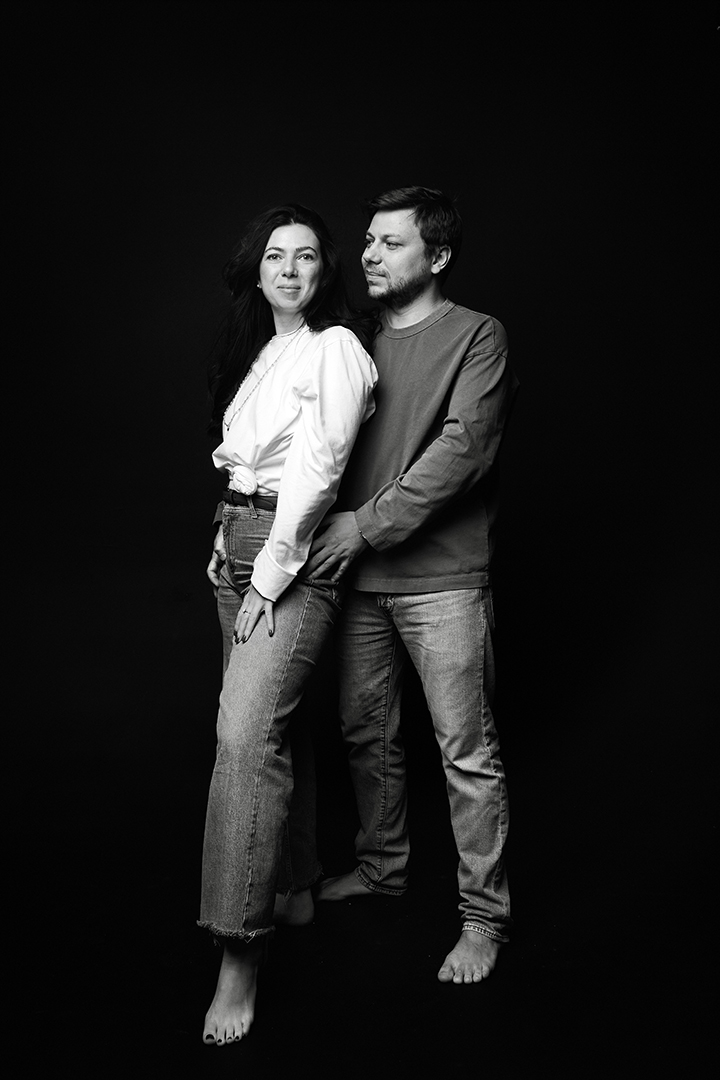
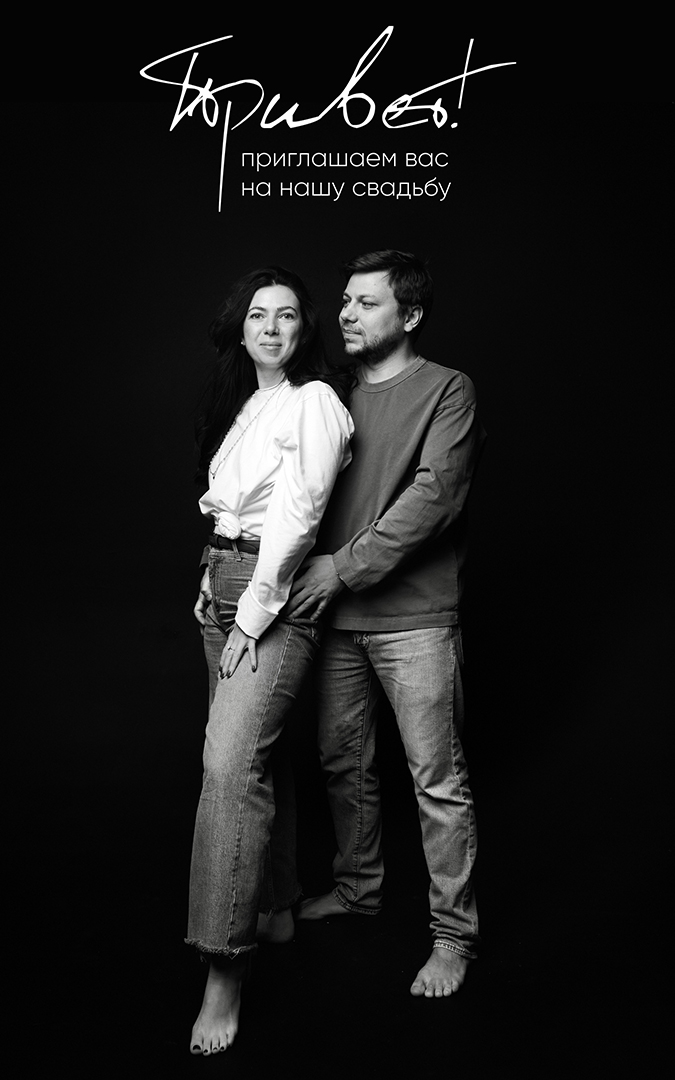
change hi image

Changed region(s): [[0.2178, 0.0306, 0.7156, 0.9778]]

diff --git a/src/components/Managers.js b/src/components/Managers.js
@@ -3,14 +3,14 @@ import SmartphoneOutlinedIcon from '@mui/icons-material/SmartphoneOutlined';
 import * as React from "react";
 
 function Managers() {
-    const managers = [{
-        "name": "Агентство Донцов-Фэмели",
-        "phone": "+7(993)700-39-75"
-    },
+    const managers = [
         {
-        "name": "Наталья (координатор)",
-        "phone": "+7(977)731-16-84"
-    }]
+            "name": "Наталья (координатор)",
+            "phone": "+7(977)731-16-84"
+        }, {
+            "name": "Агентство Донцов-Фэмели",
+            "phone": "+7(993)700-39-75"
+        }]
     return (
         <Box sx={{
             ml: '32px',
@@ -39,7 +39,7 @@ function Managers() {
                             color="neutral"
                             underline="always"
                             href={"tel:" + manager.phone}
-                              startDecorator={<SmartphoneOutlinedIcon/>}
+                            startDecorator={<SmartphoneOutlinedIcon/>}
                         >
                             {manager.phone}
                         </Link>

diff --git a/src/components/Invitation.js b/src/components/Invitation.js
@@ -6,19 +6,18 @@ function Invitation() {
         <Box sx={{
             ml: '32px',
             mr: '32px',
-            mt: '40px'
+            mt: '20px'
         }}>
-            <Typography variant="regularText">
-                Приглашаем вас на свадьбу!
+            <Typography variant="regularText" sx={{
+                mb: '2px'
+            }}>
+                21 сентября 2024
             </Typography>
             <Typography variant="regularText">
                 Москва, LOFT HALL
             </Typography>
-            <Typography variant="regularText">
-                21 сентября 2024
-            </Typography>
             <Box sx={{
-                mt: '2rem'
+                mt: '20px'
             }}>
                 <AddToCalendar/>
             </Box>

diff --git a/src/components/Hi.js b/src/components/Hi.js
@@ -5,11 +5,11 @@ import useWindowDimensions from "../hooks/useWindowDimensions";
 
 function Hi() {
     const { height, width } = useWindowDimensions();
-    const heightImage = 0.7 * height;
+    const heightImage = 0.75 * height;
     return (
         <Box sx={{
             backgroundImage: `url(${hiImage})`,
-            backgroundColor: 'black',
+            backgroundColor: 'rgb(4, 4, 4)',
             backgroundRepeat: 'no-repeat',
             backgroundSize: 'contain',
             backgroundPosition: 'center bottom',
@@ -17,11 +17,6 @@ function Hi() {
             pt: '16px',
             pb: '16px',
         }}>
-            <Typography variant="handwriteText" sx={{
-                color: 'white'
-            }}>
-                Привет!
-            </Typography>
         </Box>
     );
 }

diff --git a/src/components/DayTiming.js b/src/components/DayTiming.js
@@ -79,9 +79,7 @@ function divider() {
     return (
         <Divider sx={{
             ml: '50px',
-            mr: '50px',
-            height: '0.5px',
-            backgroundColor: 'black'
+            mr: '50px'
         }}/>
     )
 }
